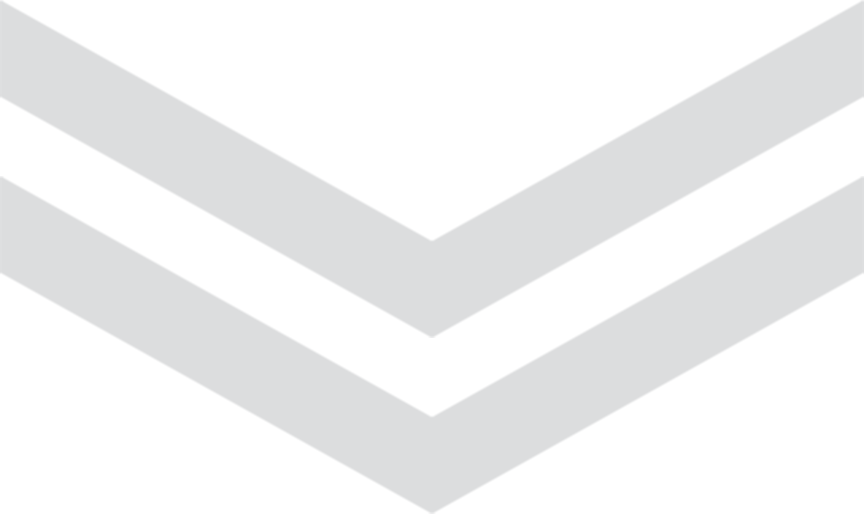
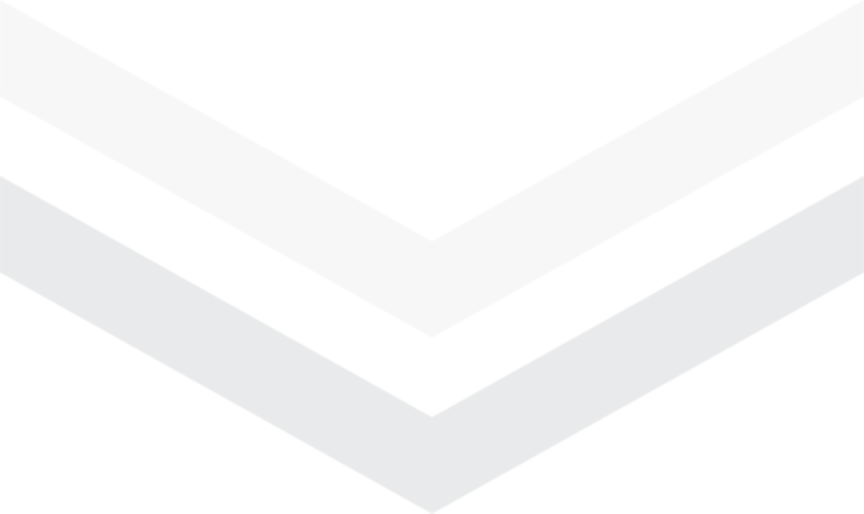
update

Changed region(s): [[0.0, 0.0, 1.0, 0.6537]]

diff --git a/draw.html b/draw.html
@@ -21,8 +21,9 @@
 	<div class="gallery">
 		<div class="zone1">
 			<p class="title_page">Portfolio</p>
-			<p class="subtitle">Mes dessins à la tablette depuis 2017.<br>Cliquez sur 🎞 pour voir la création du dessin.</p>
+			<p class="subtitle">Mes dessins à la tablette depuis 2017.<br>Cliquez sur 🎞 pour voir la création du dessin.<br>Cliquez sur les dessins pour les agrandir.</p>
 			<div class="year1"><p class="title_page">2020</p></div>
+			<hr width="10%"><br>
 			<div class="gallery_line"> <!-- Ajouter les images ici -->
 
 				
@@ -35,9 +36,9 @@
 				<div class="gallery_solo"> <img class="draw" src="img/draw/nox.jpg" alt="nox">
 				  <p class="title_draw">Nox - Avril 2020<a href="https://www.youtube.com/watch?v=HDZm64oET0A" target="_blank" style="text-decoration:none;"> 🎞 </a></p>
 			  </div>
-<div class="gallery_solo">
-		  <img class="draw" src="img/draw/ryuko2.jpg" alt="Ryuko">
-	    <p class="title_draw">Ryuko - Avril 2020<a href="https://www.youtube.com/watch?v=opLit1eFCT8" target="_blank" style="text-decoration:none;"> 🎞 </a></p>
+				<div class="gallery_solo">
+					<img class="draw" src="img/draw/ryuko2.jpg" alt="Ryuko">
+					<p class="title_draw">Ryuko - Avril 2020<a href="https://www.youtube.com/watch?v=opLit1eFCT8" target="_blank" style="text-decoration:none;"> 🎞 </a></p>
 				</div>
 				<div class="gallery_solo">
 					<img class="draw" src="img/draw/ori.jpg" alt="ori">
@@ -49,9 +50,9 @@
 				<div class="gallery_solo"> <img class="draw" src="img/draw/julien.jpg" alt="julien">
 				  <p class="title_draw">Julien - Avril 2020</p>
 			  </div>
-			  <div class="gallery_solo"> <img class="draw" src="img/draw/isaac.jpg" alt="isaac">
-				  <p class="title_draw">Isaac - Avril 2020</p>
-			  </div>
+				<div class="gallery_solo"> <img class="draw" src="img/draw/isaac.jpg" alt="isaac">
+					<p class="title_draw">Isaac - Avril 2020</p>
+				</div>
 				<div class="gallery_solo"> <img class="draw" src="img/draw/licorne_alexis.jpg" alt="Licorne Alexis">
 				  <p class="title_draw">licorne Alexis - Avril 2020</p>
 			  </div>
@@ -59,54 +60,56 @@
 		</div>
 <div class="zone2">
     <div class="year2"><p class="title_page">2019</p></div>
-			<div class="gallery_line"> <!-- Ajouter les images ici -->
+	<hr width="10%"><br>
+		<div class="gallery_line"> <!-- Ajouter les images ici -->
 
-				<div class="gallery_solo">
-					<img class="draw" src="img/draw/portrait.jpg" alt="Portrait">
-					<p class="title_draw">Portrait - Mai 2019</p>
-				</div>
-				<div class="gallery_solo">
-					<img class="draw" src="img/draw/bd_kons.jpg" alt="bd_konstantin">
-					<p class="title_draw">BD Konstantin - Décembre 2019</p>
-				</div>
-				<div class="gallery_solo">
-					<img class="draw" src="img/draw/bryde.jpg" alt="bryde">
-					<p class="title_draw">Bryde - Décembre 2019</p>
-				</div>
-				<div class="gallery_solo">
-					<img class="draw" src="img/draw/cat_raph.jpg" alt="cat raph">
-					<p class="title_draw">Chat Raphaël - Octobre 2019</p>
-				</div>
-				<div class="gallery_solo">
-					<img class="draw" src="img/draw/danganmathis.jpg" alt="dangan Mathis">
-					<p class="title_draw">Danganronpa - Juillet 2019</p>
-				</div>
-				<div class="gallery_solo">
-					<img class="draw" src="img/draw/danganraph.jpg" alt="dangan Raph">
-					<p class="title_draw">Danganronpa - Juillet 2019</p>
-				</div>
-				<div class="gallery_solo">
-					<img class="draw" src="img/draw/cyclope.jpg" alt="cyclope">
-					<p class="title_draw">Cyclope - Mai 2019</p>
-				</div>
-				<div class="gallery_solo">
-					<img class="draw" src="img/draw/portrait2.jpg" alt="portrait2">
-					<p class="title_draw">Portrait - Janvier 2019<a href="https://www.youtube.com/watch?v=nu5AAD9m7hQ" target="_blank" style="text-decoration:none;"> 🎞 </a></p>
-				</div>
-				<div class="gallery_solo">
-					<img class="draw" src="img/draw/kokichi1.png" alt="kokichi zik">
-					<p class="title_draw">Kokichi Zik - Octobre 2019</p>
-				</div>
-				<div class="gallery_solo">
-					<img class="draw" src="img/draw/kokichi2.png" alt="kokichi noel">
-					<p class="title_draw">Kokichi Noël - Octobre 2019</p>
-				</div>
-
+			<div class="gallery_solo">
+				<img class="draw" src="img/draw/portrait.jpg" alt="Portrait">
+				<p class="title_draw">Portrait - Mai 2019</p>
 			</div>
+			<div class="gallery_solo">
+				<img class="draw" src="img/draw/bd_kons.jpg" alt="bd_konstantin">
+				<p class="title_draw">BD Konstantin - Décembre 2019</p>
+			</div>
+			<div class="gallery_solo">
+				<img class="draw" src="img/draw/bryde.jpg" alt="bryde">
+				<p class="title_draw">Bryde - Décembre 2019</p>
+			</div>
+			<div class="gallery_solo">
+				<img class="draw" src="img/draw/cat_raph.jpg" alt="cat raph">
+				<p class="title_draw">Chat Raphaël - Octobre 2019</p>
+			</div>
+			<div class="gallery_solo">
+				<img class="draw" src="img/draw/danganmathis.jpg" alt="dangan Mathis">
+				<p class="title_draw">Danganronpa - Juillet 2019</p>
+			</div>
+			<div class="gallery_solo">
+				<img class="draw" src="img/draw/danganraph.jpg" alt="dangan Raph">
+				<p class="title_draw">Danganronpa - Juillet 2019</p>
+			</div>
+			<div class="gallery_solo">
+				<img class="draw" src="img/draw/cyclope.jpg" alt="cyclope">
+				<p class="title_draw">Cyclope - Mai 2019</p>
+			</div>
+			<div class="gallery_solo">
+				<img class="draw" src="img/draw/portrait2.jpg" alt="portrait2">
+				<p class="title_draw">Portrait - Janvier 2019<a href="https://www.youtube.com/watch?v=nu5AAD9m7hQ" target="_blank" style="text-decoration:none;"> 🎞 </a></p>
+			</div>
+			<div class="gallery_solo">
+				<img class="draw" src="img/draw/kokichi1.png" alt="kokichi zik">
+				<p class="title_draw">Kokichi Zik - Octobre 2019</p>
+			</div>
+			<div class="gallery_solo">
+				<img class="draw" src="img/draw/kokichi2.png" alt="kokichi noel">
+				<p class="title_draw">Kokichi Noël - Octobre 2019</p>
+			</div>
+
+		</div>
 		</div>
 		
 		<div class="zone1">
 			<div class="year1"><p class="title_page">2018</p></div>
+			<hr width="10%"><br>
 			<div class="gallery_line"> <!-- Ajouter les images ici -->
 
 				<div class="gallery_solo">
@@ -175,6 +178,7 @@
 		
 		<div class="zone2">
 			<div class="year2"><p class="title_page">2017</p></div>
+			<hr width="10%"><br>
 			<div class="gallery_line"> <!-- Ajouter les images ici -->
 
 				<div class="gallery_solo">

diff --git a/index.html b/index.html
@@ -24,6 +24,7 @@
 				<p class="title_page">Arthur "Takase"</p>
 				<p class="about_text">Haec et huius modi quaedam innumerabilia ultrix facinorum impiorum bonorumque praemiatrix aliquotiens operatur Adrastia atque utinam semper quam vocabulo duplici etiam Nemesim appellamus: ius quoddam sublime numinis efficacis, humanarum mentium opinione lunari circulo superpositum, vel ut definiunt alii, substantialis tutela generali potentia partilibus praesidens fatis, quam theologi veteres fingentes Iustitiae filiam ex abdita quadam aeternitate tradunt omnia despectare terrena.</p>
 			</div>
+			<img class="arrow" src="img/index/arrow.png" alt="arrow">
 		</div>
 		<div class="zone2">
 			<p class="title_page">Mes réseaux</p>
@@ -34,19 +35,19 @@
 					<p class="reseaux_name">Takase#1347</p>
 				</div>
 				<div class="reseaux">
-					<img class="reseaux_img" src="img/index/git.png" alt="github">
+					<a href="https://github.com/ArthurTakase" target="_blank"><img class="reseaux_img" src="img/index/git.png" alt="github"></a>
 					<p class="reseaux_name">ArthurTakase</p>
 				</div>
 				<div class="reseaux">
-					<img class="reseaux_img" src="img/index/twitter.png" alt="Twitter Shitpost">
-					<p class="reseaux_name">TakaseShitpost</p>
+					<a href="https://twitter.com/TakaseShitpost" target="_blank"><img class="reseaux_img" src="img/index/twitter.png" alt="Twitter Shitpost"></a>
+					<p class="reseaux_name">@TakaseShitpost</p>
 				</div>
 				<div class="reseaux">
-					<img class="reseaux_img" src="img/index/twitter.png" alt="Twitter Dessin">
-					<p class="reseaux_name">TakaseDraw</p>
+					<a href="https://twitter.com/TakaseDraw" target="_blank"><img class="reseaux_img" src="img/index/twitter.png" alt="Twitter Dessin"></a>
+					<p class="reseaux_name">@TakaseDraw</p>
 				</div>
 				<div class="reseaux">
-					<img class="reseaux_img" src="img/index/yt.png" alt="Youtube">
+					<a href="https://www.youtube.com/channel/UCKtk2Baz1gMiBBoaXWFjjfQ" target="_blank"><img class="reseaux_img" src="img/index/yt.png" alt="Youtube"></a>
 					<p class="reseaux_name">Arthur</p>
 				</div>
 			</div>

diff --git a/master.css b/master.css
@@ -90,14 +90,14 @@
 
 .year1 {
 	position: sticky;
-	top: 80px;
+	top: 83px;
 	background-color: #2f3136;
 	opacity: 95%;
 }
 
 .year2 {
 	position: sticky;
-	top: 80px;
+	top: 83px;
 	background-color: #36393f;
 	opacity: 95%;
 }
@@ -186,6 +186,7 @@ footer {
 	height: 200px;
 	border-radius: 200px;
 	margin-top: 100px;
+	box-shadow: 1px 1px 12px #24262a;
 }
 
 .about_zone {
@@ -202,6 +203,8 @@ footer {
 .reseaux {
 	display: inline-block;
 	margin: 30px;
+	padding-left: 10px;
+	padding-right: 10px;
 	margin-bottom: 20px;
 	background-color: #40444b;
 	border-top-left-radius: 7px;
@@ -231,5 +234,12 @@ footer {
 	background-color: #2f3136;
 	padding-bottom: 60px;
 	padding-top: 30px;
-	height: 100vh;
+	/*height: 100vh;*/
+}
+
+.arrow {
+	margin-top: 50px;
+	margin-bottom: 30px;
+	height: 50px;
+	width: 100px;
 }
